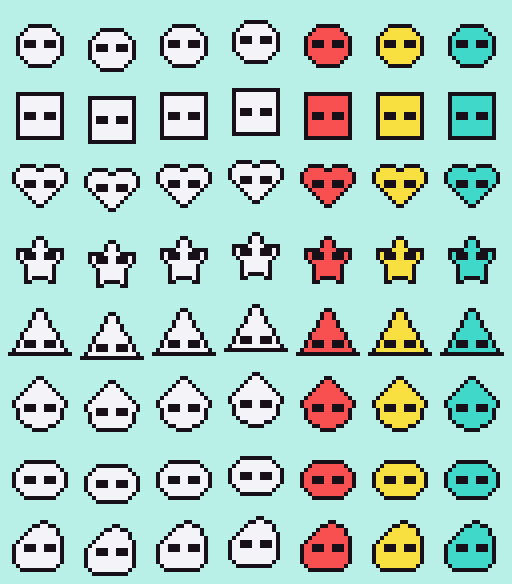
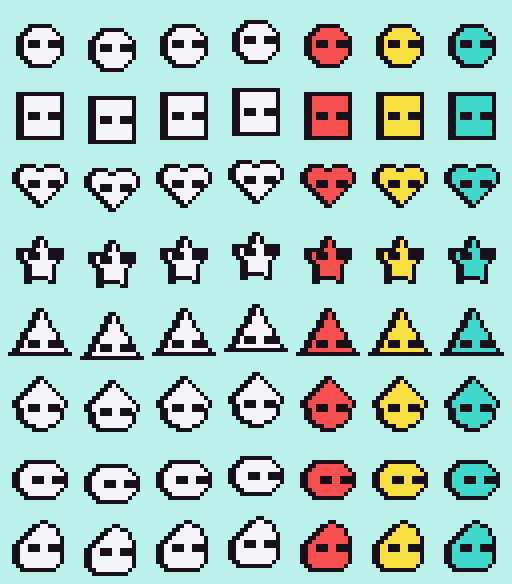
Player facing: eyes shifted 1-2 px toward the facing side and a 2 px back outline on the trailing edge (still 4 colors, 8 tiles, flipLeft mirrors)

diff --git a/scripts/build_level1.py b/scripts/build_level1.py
@@ -490,6 +490,9 @@ def _shape_mask(shape: str, dy: int) -> list[list[bool]]:
     return mask
 
 
+EYE_SHIFTS = (2, 1)
+
+
 def draw_shape_bot(image, origin: int, dy: int, shape: str) -> None:
     mask = _shape_mask(shape, dy)
     for y in range(16):
@@ -501,13 +504,35 @@ def draw_shape_bot(image, origin: int, dy: int, shape: str) -> None:
                 for ox, oy in ((1, 0), (-1, 0), (0, 1), (0, -1))
             )
             image[y][origin + x] = GRAY if edge else WHITE
-    # Eyes: two short, thick horizontal black ovals, 3x2 px each, mirrored about
-    # the cell's centre line. At 16x16 a 3x2 block is the smallest readable oval.
+    # Facing: the sheet faces right (flipLeft mirrors it for left). The
+    # trailing (left) edge gets a 2 px outline, a darker back side, so even
+    # the symmetric shapes read as pointing one way.
+    back = [
+        (y, x)
+        for y in range(16)
+        for x in range(1, 8)
+        if image[y][origin + x] == WHITE and image[y][origin + x - 1] == GRAY
+    ]
+    for y, x in back:
+        image[y][origin + x] = GRAY
+    # Eyes: two short, thick horizontal black ovals, 3x2 px each, shifted
+    # toward the facing side by EYE_SHIFT px (2, or 1 where the shape is too
+    # narrow), staying on fill pixels so the outline stays closed.
     eye_top, eye_xs = PLAYER_EYES[shape]
     eye_y = eye_top + dy
+
+    def fits(shift: int) -> bool:
+        return all(
+            0 <= yy < 16 and image[yy][origin + xx] == WHITE
+            for cx in eye_xs
+            for yy in (eye_y, eye_y + 1)
+            for xx in range(cx + shift, cx + shift + 3)
+        )
+
+    shift = next((s for s in EYE_SHIFTS if fits(s)), 0)
     for cx in eye_xs:
         for yy in (eye_y, eye_y + 1):
-            for xx in range(cx, cx + 3):
+            for xx in range(cx + shift, cx + shift + 3):
                 if 0 <= yy < 16 and image[yy][origin + xx][3]:
                     image[yy][origin + xx] = BLACK
 
